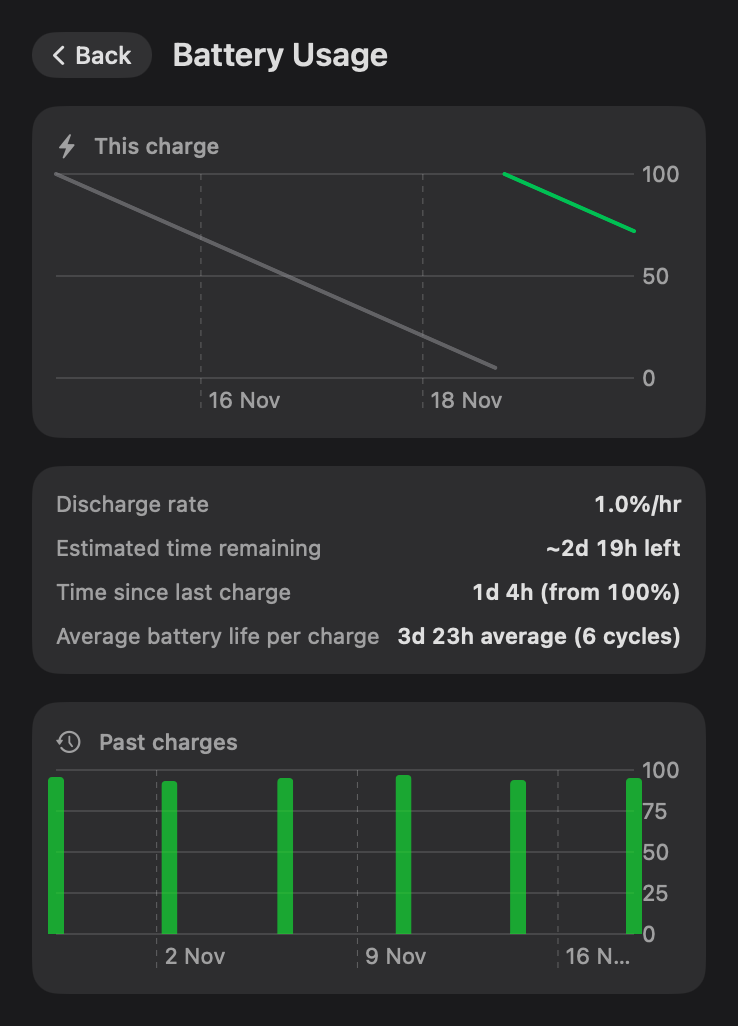
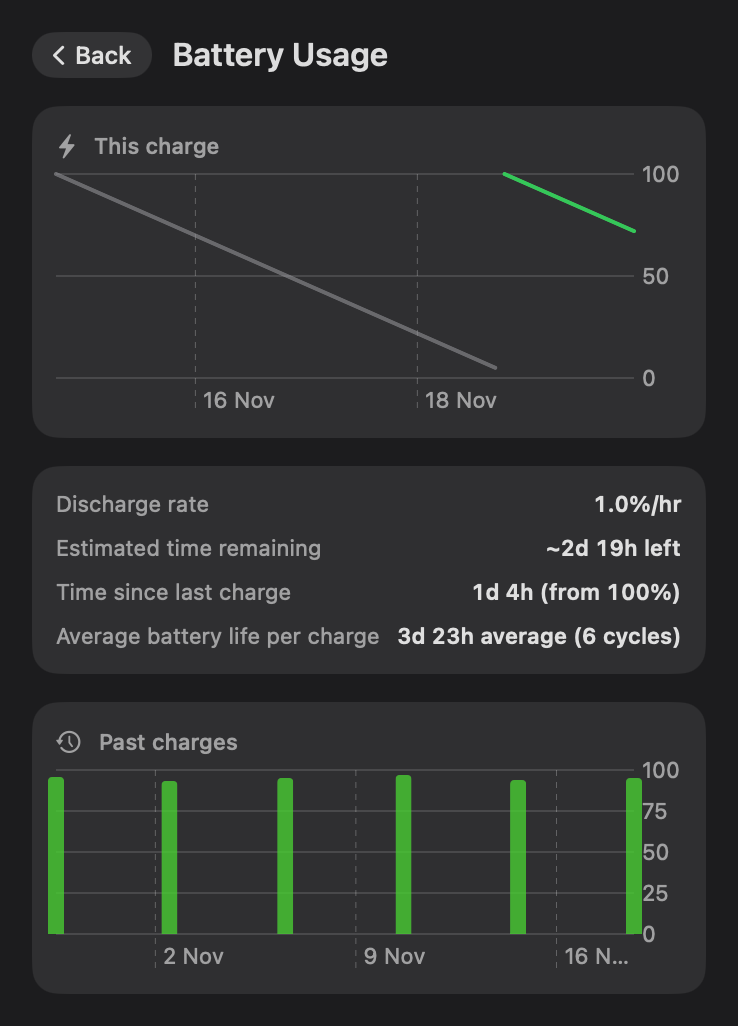
Renders in sRGB, and the popover's Buttons row shows its remaps

diff --git a/Sources/MacRazer/main.swift b/Sources/MacRazer/main.swift
@@ -203,6 +203,16 @@ final class RenderWindow: NSWindow {
         }
         image = cropped
     }
+    // The window server hands back the main display's colour space (Display P3 on a MacBook,
+    // a monitor's own profile on another). Convert to sRGB so the same render comes out the
+    // same whichever display it ran on, and reads right where the profile is ignored.
+    if let srgb = CGColorSpace(name: CGColorSpace.sRGB), image.colorSpace?.name != srgb.name,
+       let ctx = CGContext(data: nil, width: image.width, height: image.height, bitsPerComponent: 8,
+                           bytesPerRow: 0, space: srgb,
+                           bitmapInfo: CGImageAlphaInfo.premultipliedLast.rawValue) {
+        ctx.draw(image, in: CGRect(x: 0, y: 0, width: image.width, height: image.height))
+        if let converted = ctx.makeImage() { image = converted }
+    }
     guard let png = NSBitmapImageRep(cgImage: image).representation(using: .png, properties: [:]) else {
         print("Render failed")
         return
@@ -359,6 +369,9 @@ case "render-ui":
     renderAppearance.twoColumns = args.contains("twocolumns")
     renderAppearance.glass = false
     renderAppearance.theme = renderTheme(args)
+    // The same two remaps as `render-remap`, so the Buttons row reads "2 remapped" as it does in use.
+    let renderRemapper = ButtonRemapper()
+    renderRemapper.loadPreviewState()
     let rootView: AnyView = args.contains("color")
         ? AnyView(ColorPickerPage(color: .constant(.blue),
                                   device: accessoryPIDs.isEmpty ? nil
@@ -370,7 +383,7 @@ case "render-ui":
         : args.contains("profiles")
         ? AnyView(ProfilesView(controller: controller, remapper: ButtonRemapper(), onBack: {},
                                 width: PopoverLayout.oneColumnWidth))
-        : AnyView(PopoverView(controller: controller, remapper: ButtonRemapper(), updateChecker: updateChecker,
+        : AnyView(PopoverView(controller: controller, remapper: renderRemapper, updateChecker: updateChecker,
                               launchAtLogin: launchAtLogin, appearance: renderAppearance,
                               onOpenSettings: {},
                               onOpenDeviceTest: {}, onTestAccessory: { _ in }, // no windows in a render
